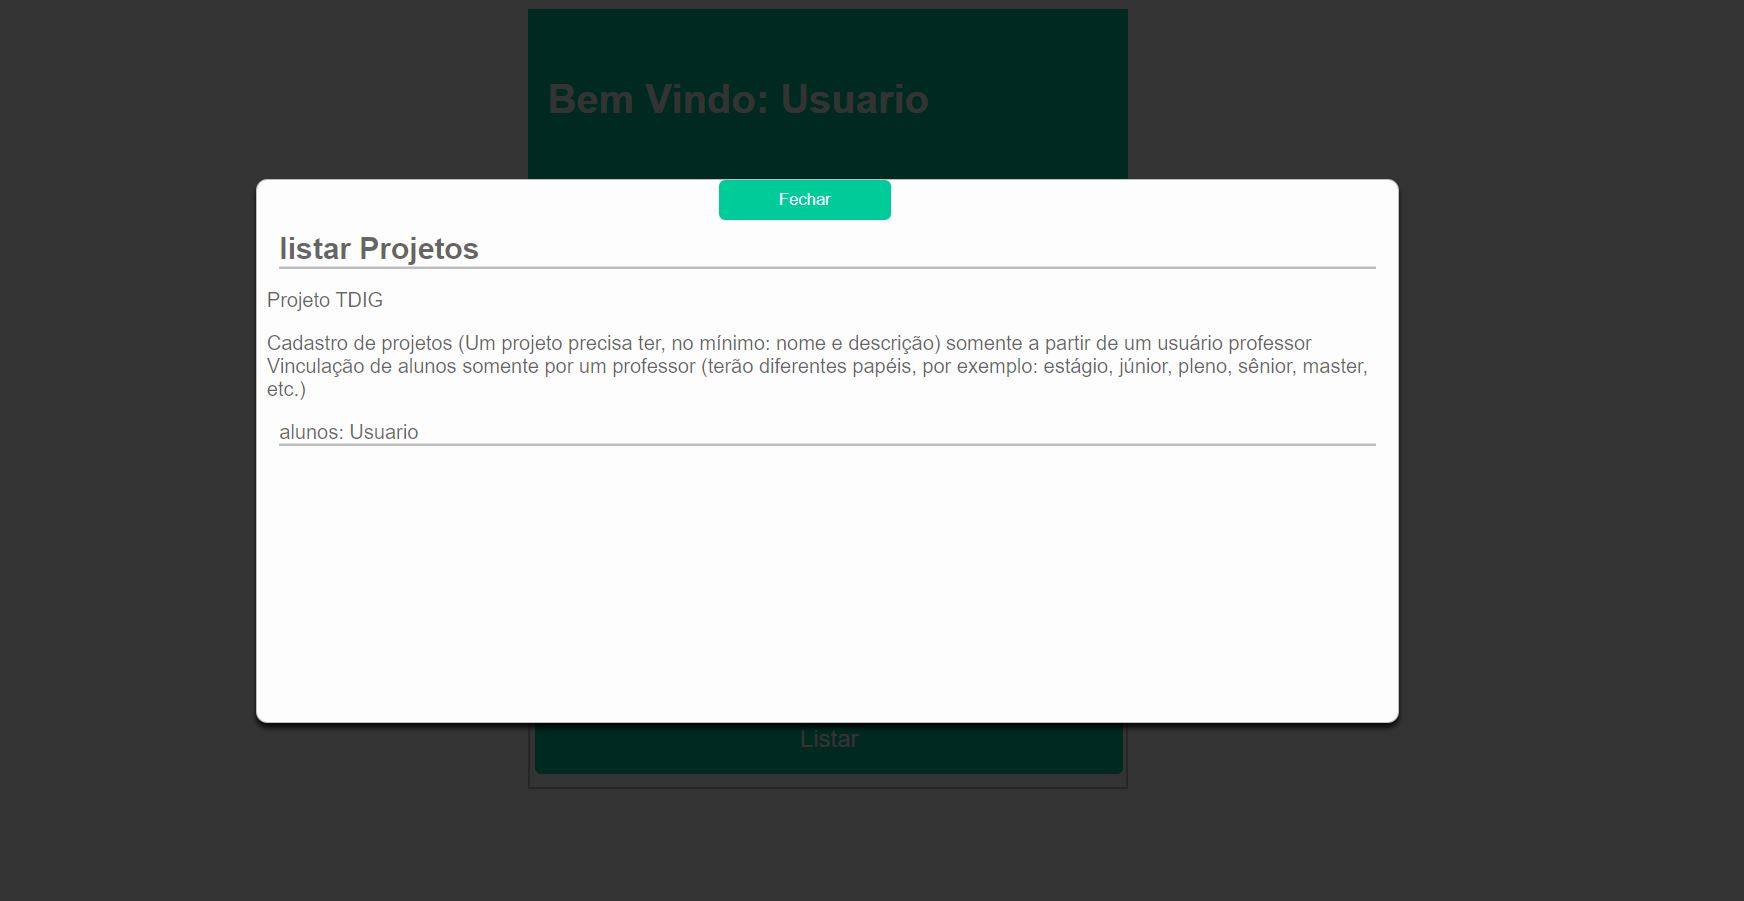
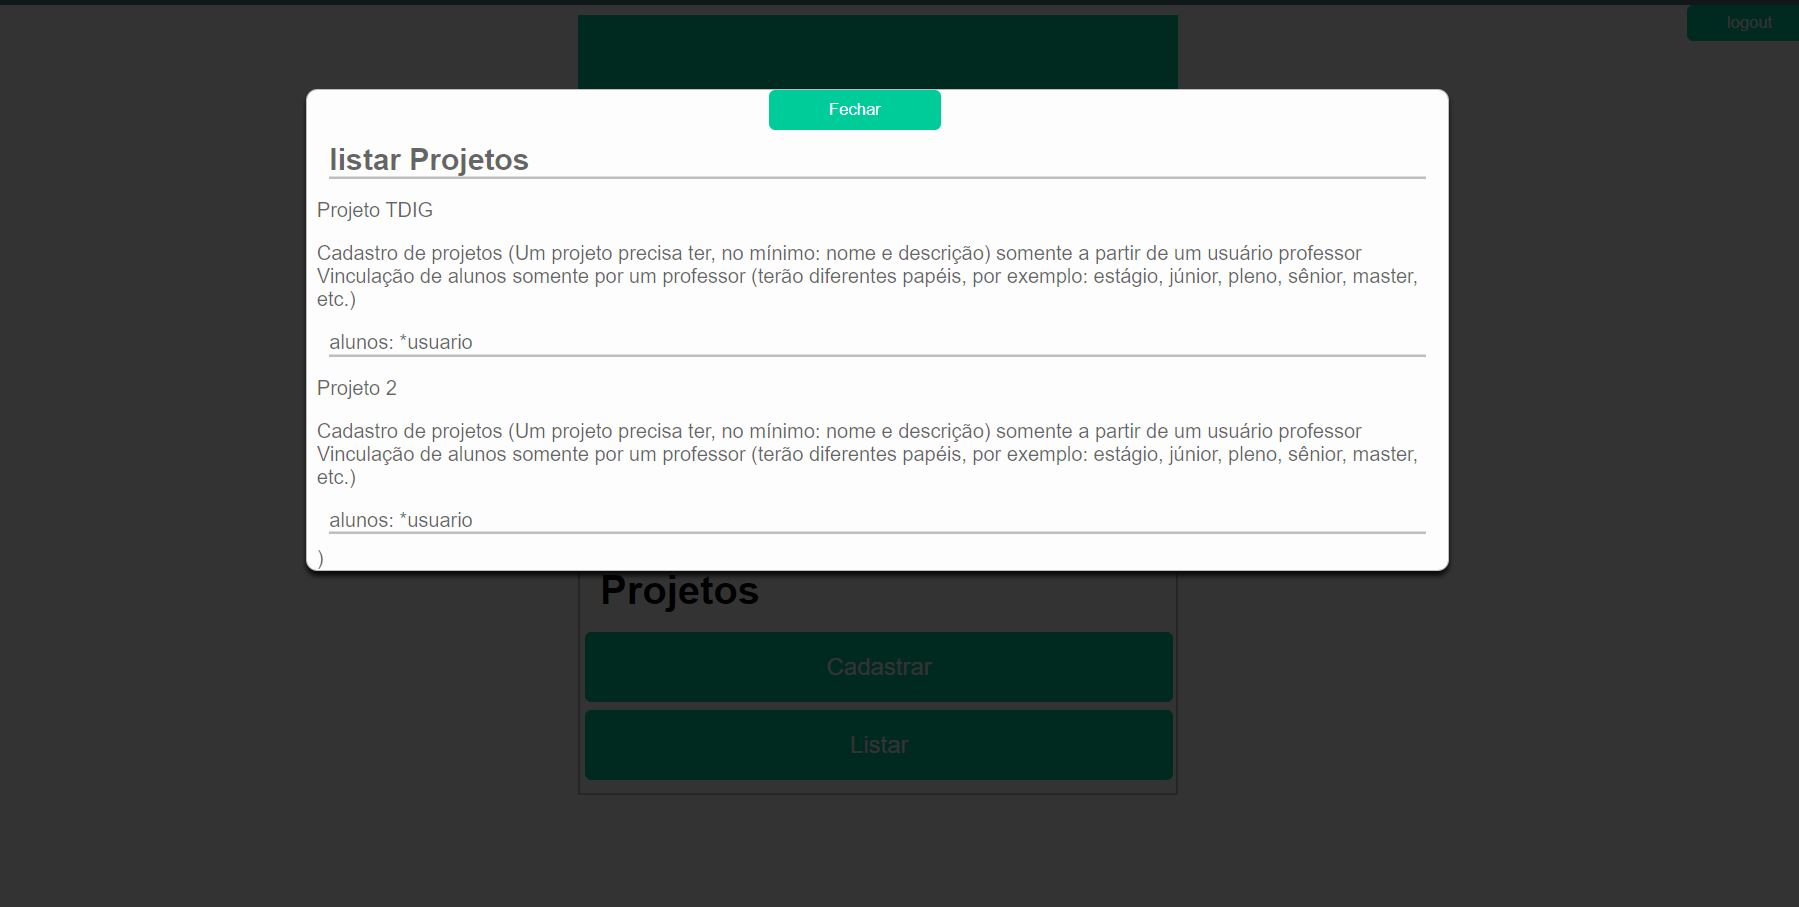
'finalizado'

Changed region(s): [[0.0, 0.0, 1.0, 0.8701]]

diff --git a/src/paginas/homeProfessor.js b/src/paginas/homeProfessor.js
@@ -61,7 +61,7 @@ const HomeProfessor = () => {
                         <p className="descricao">alunos: {dados.users[0].username}</p>
                     </div>
                     <div className="projetos">
-                        <p>{dados.name}</p>
+                        <p>Projeto 2</p>
                         <p className = "">{dados.description}</p>
                         <p className="descricao">alunos: {dados.users[0].username}</p>
                     </div>

diff --git a/src/paginas/Modal/listarProjetos.js b/src/paginas/Modal/listarProjetos.js
@@ -20,6 +20,7 @@ const listarProjetos = ( {id = 'modal', onClose = () => {}, children }) => {
     return (
         <div id = {id} className="modal" onClick= {clicarFora}>
          <div className="container">
+             {/* aqui devia ser pra fechar mas coloquei carregar projetos para testar a api */}
             <button className="close-Btn" onClick= {carregarProjetos()}>Fechar</button>
             <div className="content">{children})</div>
          </div>

diff --git a/README.md b/README.md
@@ -5,13 +5,11 @@
    [ROMENILDO DO VALE FERREIRA](https://github.com/Romenildo)
 
 
-## Routes
-   '''
-    /
-    /register
-    /homeProfessor
-    /homeAluno
- '''
+## Routes   
+    /   
+    /register   
+    /homeProfessor   
+    /homeAluno   
 
 ## Login 
 ![](https://github.com/Romenildo/Projeto-TDIG/blob/master/imgsGit/login.JPG)
